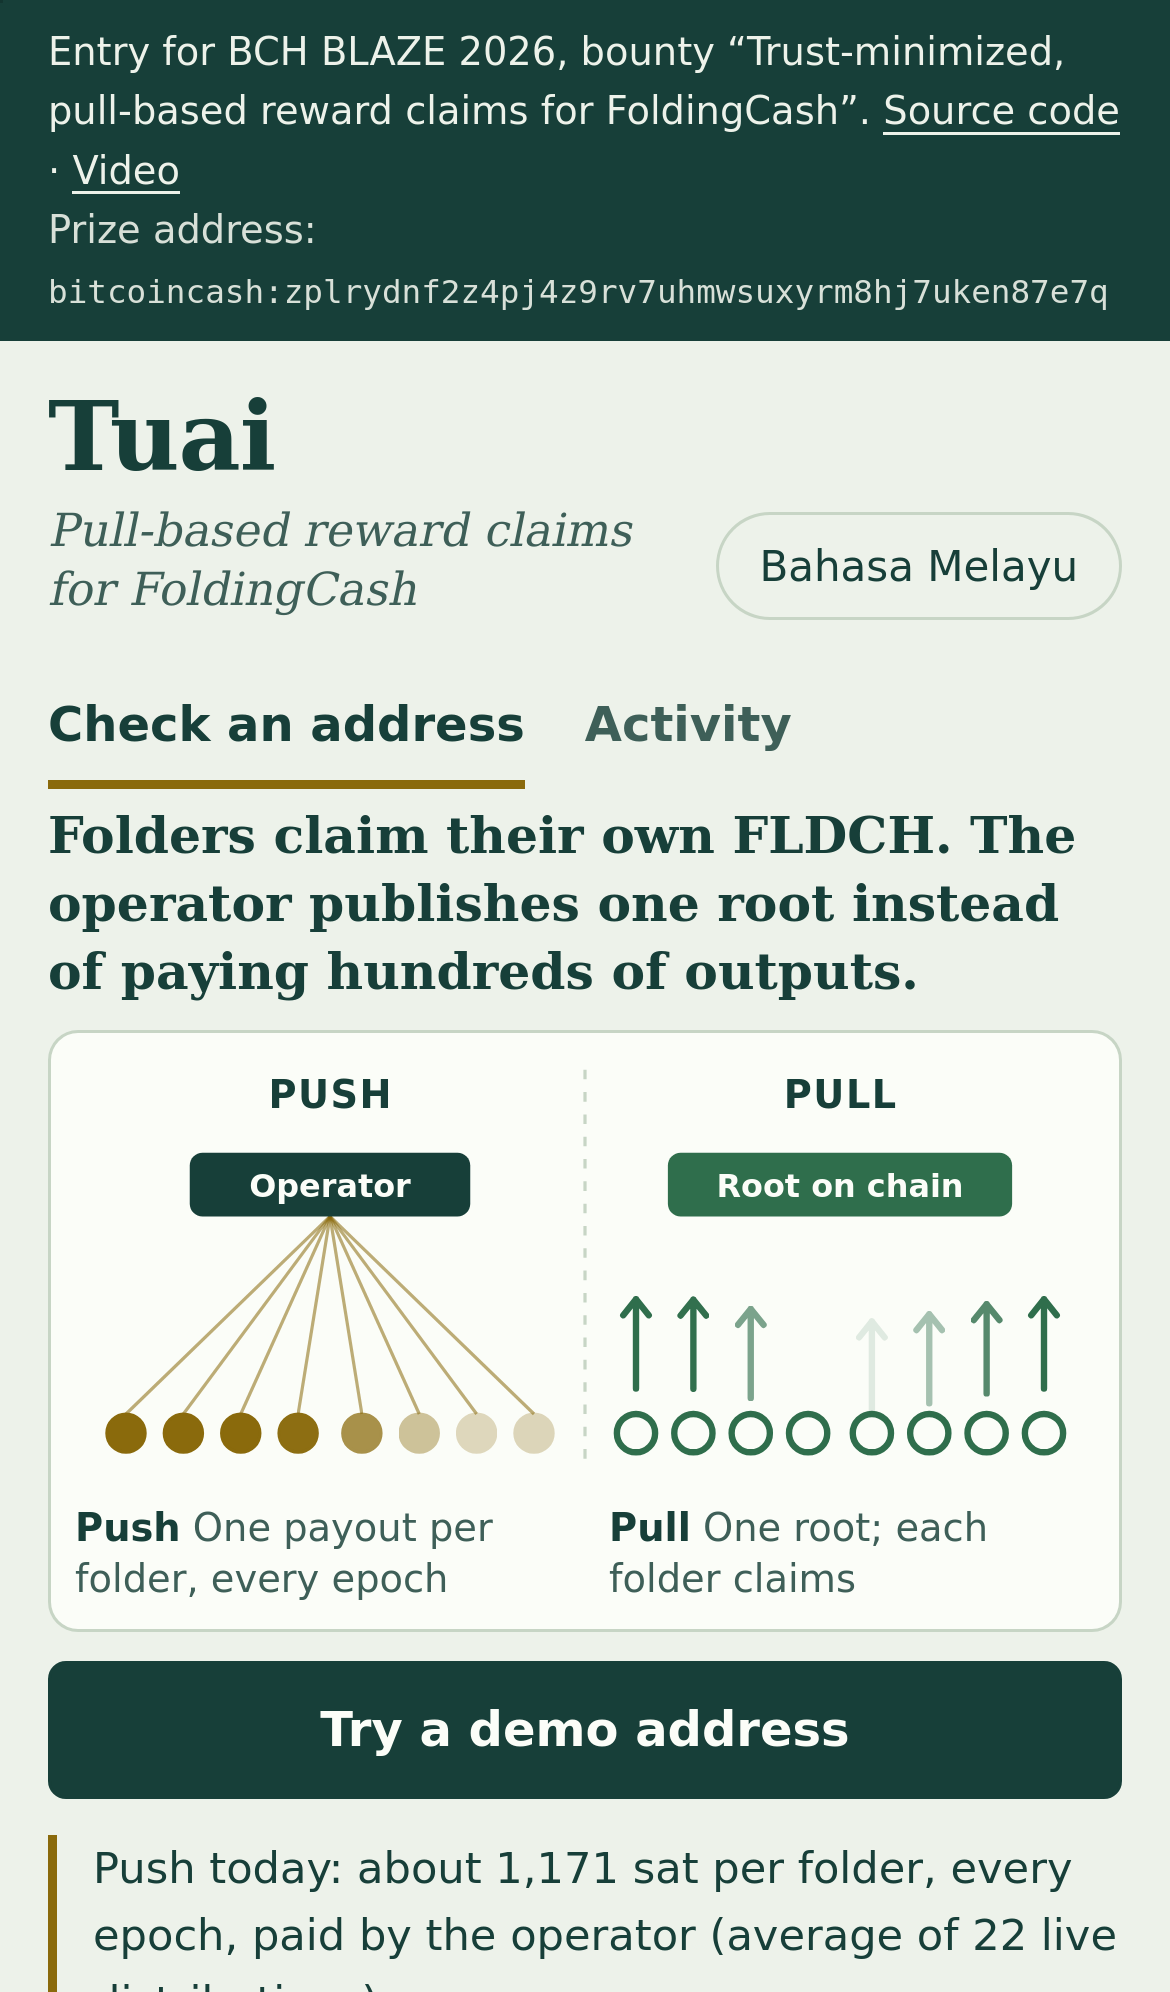
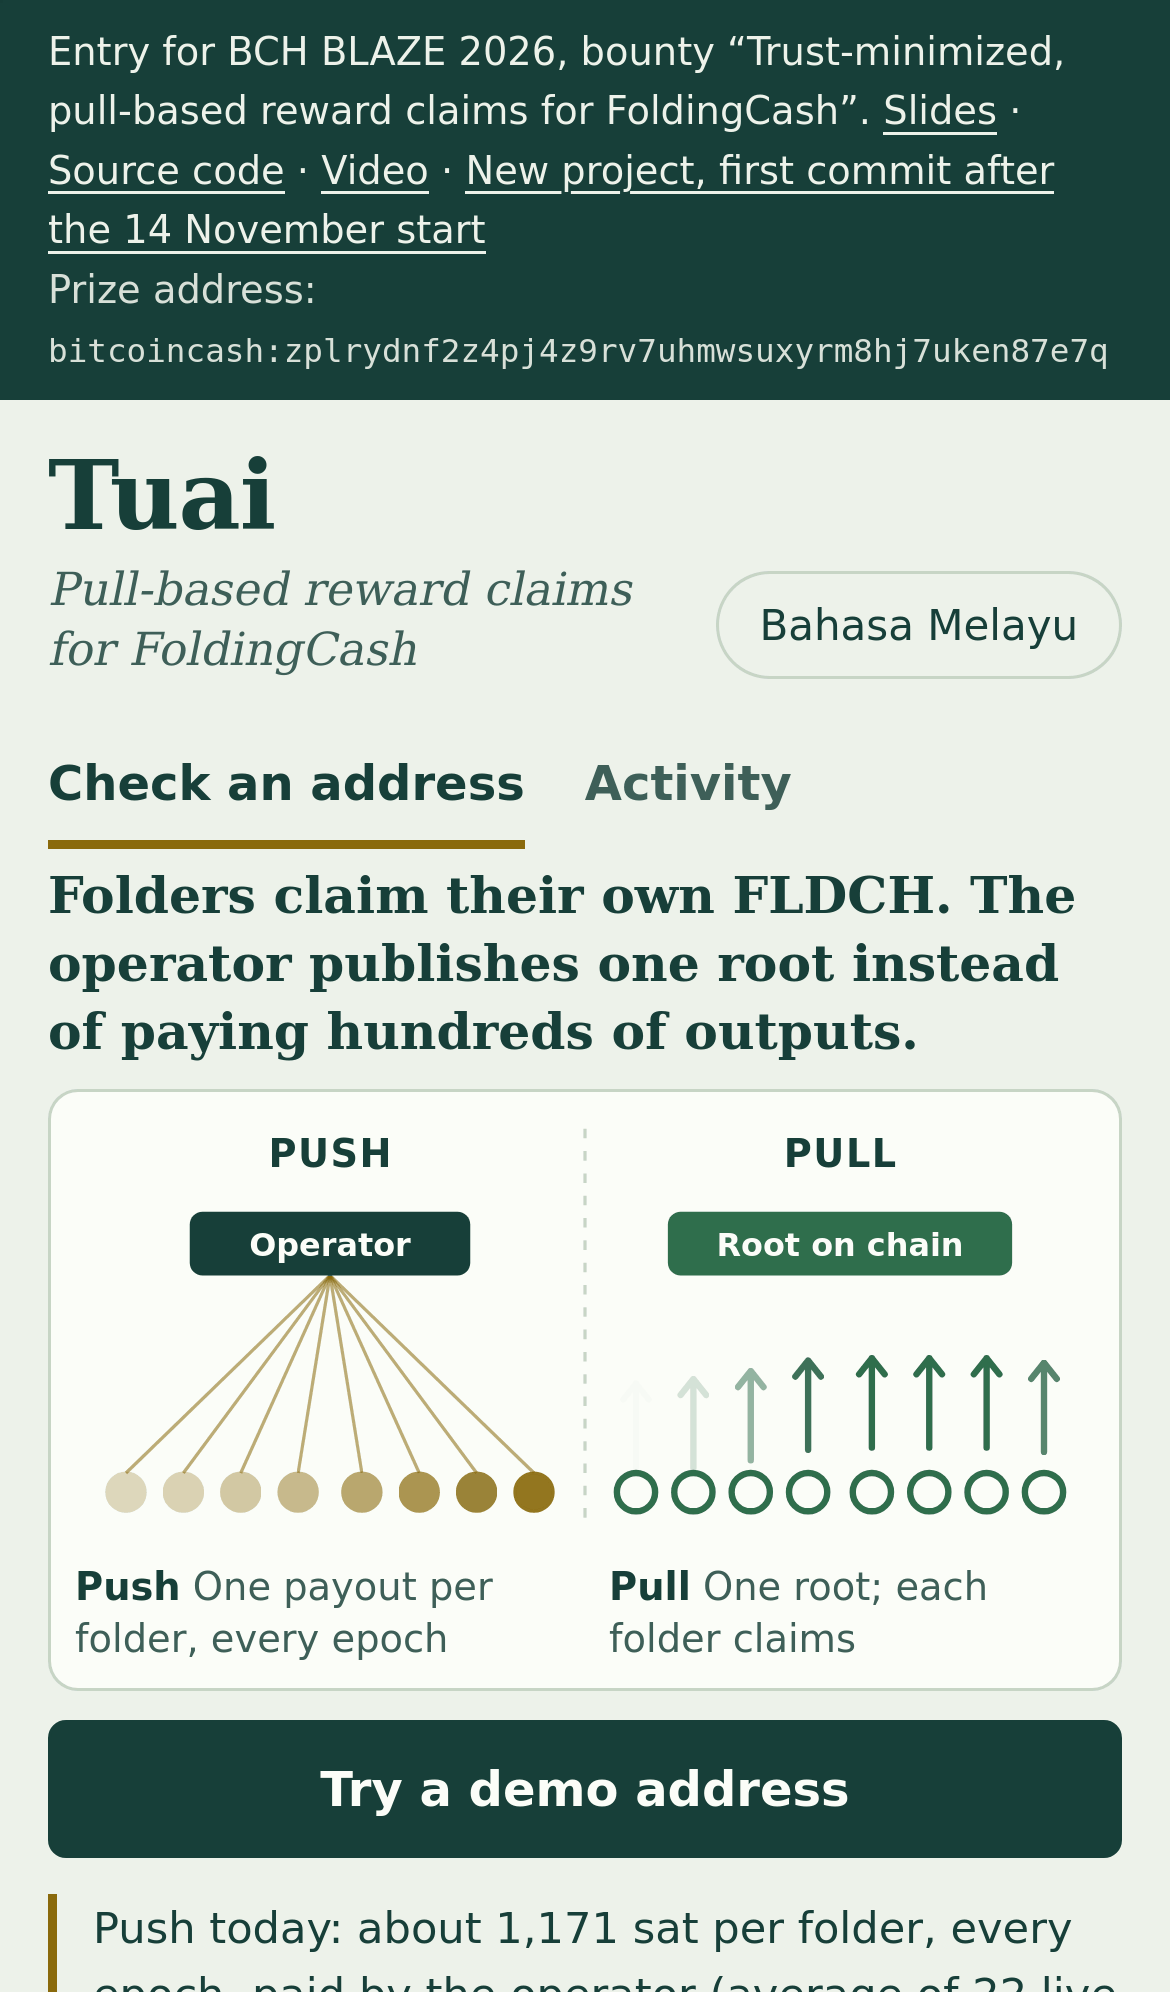
Start the reviewer guide on the home page, link the slides served by the live site, and add home and mainnet card screenshots from deploy 0d8c940

diff --git a/README.md b/README.md
@@ -13,7 +13,7 @@ New project, first commit after the 14 November start: the first commit of this 
 - The mainnet test-token run, checked on chain by the page: <https://tuai.sasateguh.com/#/activity/mainnet>
 - Demo video (68 s, silent): [`docs/video/tuai-demo.mp4`](docs/video/tuai-demo.mp4), also played on the claim page: <https://tuai.sasateguh.com/#demo-video>
 - Proof endpoint: <https://tuai.sasateguh.com/epochs/chipnet/index.json>
-- Slides: [`docs/deck.pdf`](docs/deck.pdf) (8 pages)
+- Slides: <https://tuai.sasateguh.com/deck/tuai-blaze-2026.pdf>, also [`docs/deck.pdf`](docs/deck.pdf) (8 pages)
 - Chipnet and mainnet record with every txid: [`docs/MEASURED.md`](docs/MEASURED.md)
 - Screenshots of the live site: [`docs/MEASURED.md`](docs/MEASURED.md#screenshots) ([`docs/img/`](docs/img/))
 - Format and transaction specification: [`docs/SPEC.md`](docs/SPEC.md)
@@ -24,31 +24,36 @@ New project, first commit after the 14 November start: the first commit of this 
 
 ## Reviewer guide
 
-A five-minute path through the working system, all on chipnet:
+A five-minute path through the working system, on chipnet and then mainnet:
 
-1. Open <https://tuai.sasateguh.com/#/activity>. Every transaction of the chipnet runs is listed in order (deploy,
+1. Open <https://tuai.sasateguh.com>. The top of the page says in one sentence what Tuai does and draws push next to
+   pull with the cost of each. Below it, a strip of live numbers the page reads itself from the published files, a
+   chipnet Electrum server and the relayer (leaves in the active epoch, recorded claims, sat held by the pool, cost per
+   claim, refused repeat claims, the latest block), refreshed without a button; then a card for the mainnet run and the
+   demo video.
+2. Open <https://tuai.sasateguh.com/#/activity>. Every transaction of the chipnet runs is listed in order (deploy,
    propose, the early activations the node refused, activate, claims, the refused double claim, epoch 2, push), each
    with its size, fee and an explorer link; refused ones show the node's message instead of a link. The page also
    asks an Electrum server itself for each transaction and shows "Confirmed on chain, block N" with the server it
    asked, so the list does not depend on an explorer.
-2. Open <https://tuai.sasateguh.com> and press **Try a demo address**, which picks a leaf that still has tokens
+3. Open <https://tuai.sasateguh.com> and press **Try a demo address**, which picks a leaf that still has tokens
    to claim (or paste any address from
    [`deployments/chipnet/epoch-2.json`](deployments/chipnet/epoch-2.json)). The page finds the leaf, rebuilds the
    Merkle root in the browser and compares it with the root the pool holds on chain, then shows the cumulative,
    claimed and claimable amounts from the vault receipt.
-3. Press **Claim now**. A chipnet relayer pays the fee and dust; the contract still pays the tokens only to the
+4. Press **Claim now**. A chipnet relayer pays the fee and dust; the contract still pays the tokens only to the
    leaf's address. The page shows the txid with an explorer link, and the claim then appears on the activity page.
    The first claim made this way, checked on chain, is
[1 lines of base64/hex data omitted]
    ([`docs/MEASURED.md`](docs/MEASURED.md#chipnet-claims-from-the-page)).
-4. Press **Try to claim again** on the same leaf. The second claim is refused by the contract and by the node, and
+5. Press **Try to claim again** on the same leaf. The second claim is refused by the contract and by the node, and
    the page shows both messages.
-5. Open <https://tuai.sasateguh.com/#/activity/mainnet>. The same contracts ran once on mainnet with the project's
+6. Open <https://tuai.sasateguh.com/#/activity/mainnet>. The same contracts ran once on mainnet with the project's
    own test token: deploy, a two-of-three proposal, activation after the delay, and four claims by project demo
[1 lines of base64/hex data omitted]
    block 978157
    ([`docs/MEASURED.md`](docs/MEASURED.md#mainnet-claim-with-a-test-token)). Mainnet links go to two explorers.
-6. In a clone: `npm ci && npm test` (offline), then
+7. In a clone: `npm ci && npm test` (offline), then
    `npx tsx bin/tuai.ts epoch verify deployments/chipnet/epoch-2.json` to rebuild the published root from its inputs.
 
 When the relayer is empty, busy or switched off, the page says so and shows the CLI command instead of the button.

diff --git a/docs/MEASURED.md b/docs/MEASURED.md
@@ -355,8 +355,15 @@ query (docs/decisions/0014-explorers-and-chain-check.md).
 
 ![Home page on an iPhone: the hero with the push and pull drawing and the demo button](img/home-iphone.png)
 
-The home page above the fold: one sentence, the push and pull drawing and "Try a demo address" (WebKit, iPhone 13,
-captured 2026-11-20 04:37:48 UTC, right after deploy tag `24ba3b7-202611200434`).
+The home page above the fold: the entry banner with the slides, source, video and first-commit links, one sentence, the
+push and pull drawing and "Try a demo address" (WebKit, iPhone 13, captured 2026-11-20 11:02:28 UTC, right after deploy
+tag `0d8c940-202611201058`).
+
+![Home page card for the mainnet test-token run](img/home-mainnet-iphone.png)
+
+The mainnet card on the home page, read from the published mainnet record: 4 claims accepted on mainnet, 0 refused, the
[1 lines of base64/hex data omitted]
+(WebKit, iPhone 13, captured 2026-11-20 11:02:54 UTC, same deploy).
 
 ![Live numbers read from chipnet, and the demo video](img/home-stats-video.png)
 
